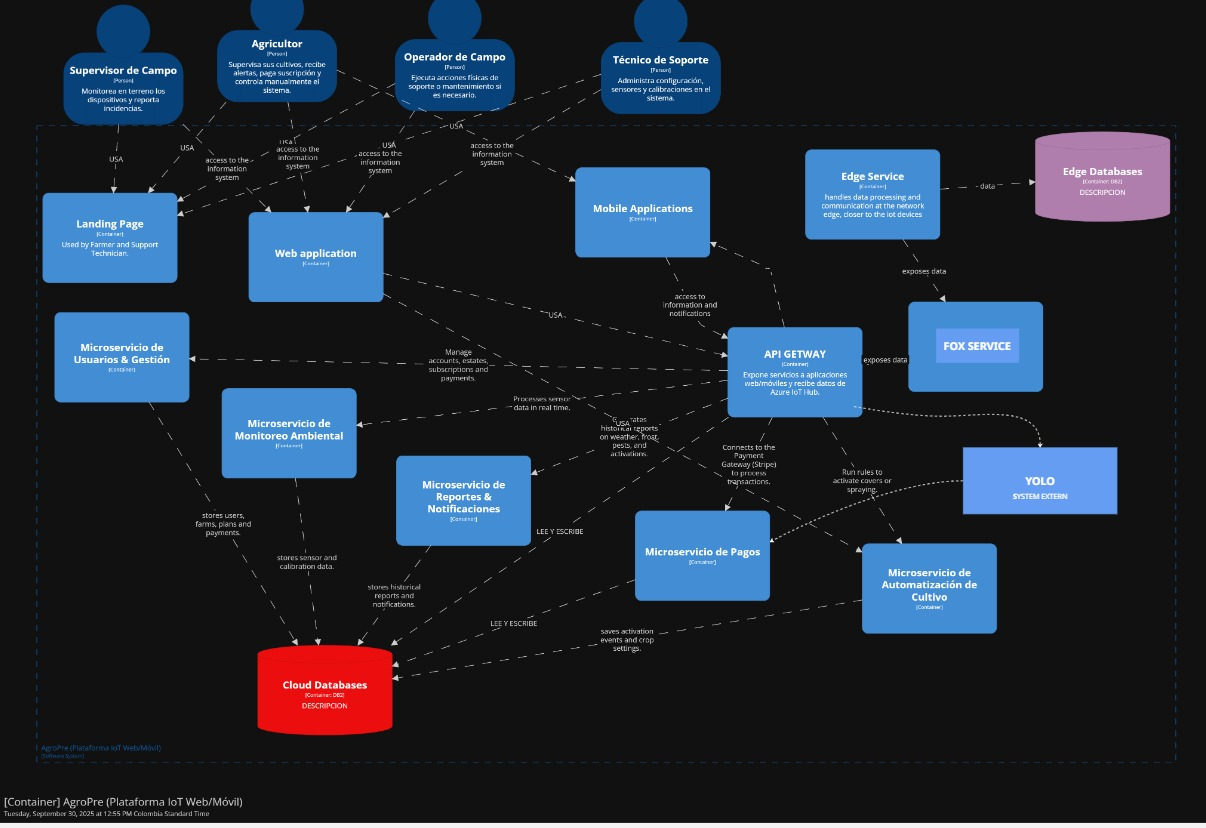
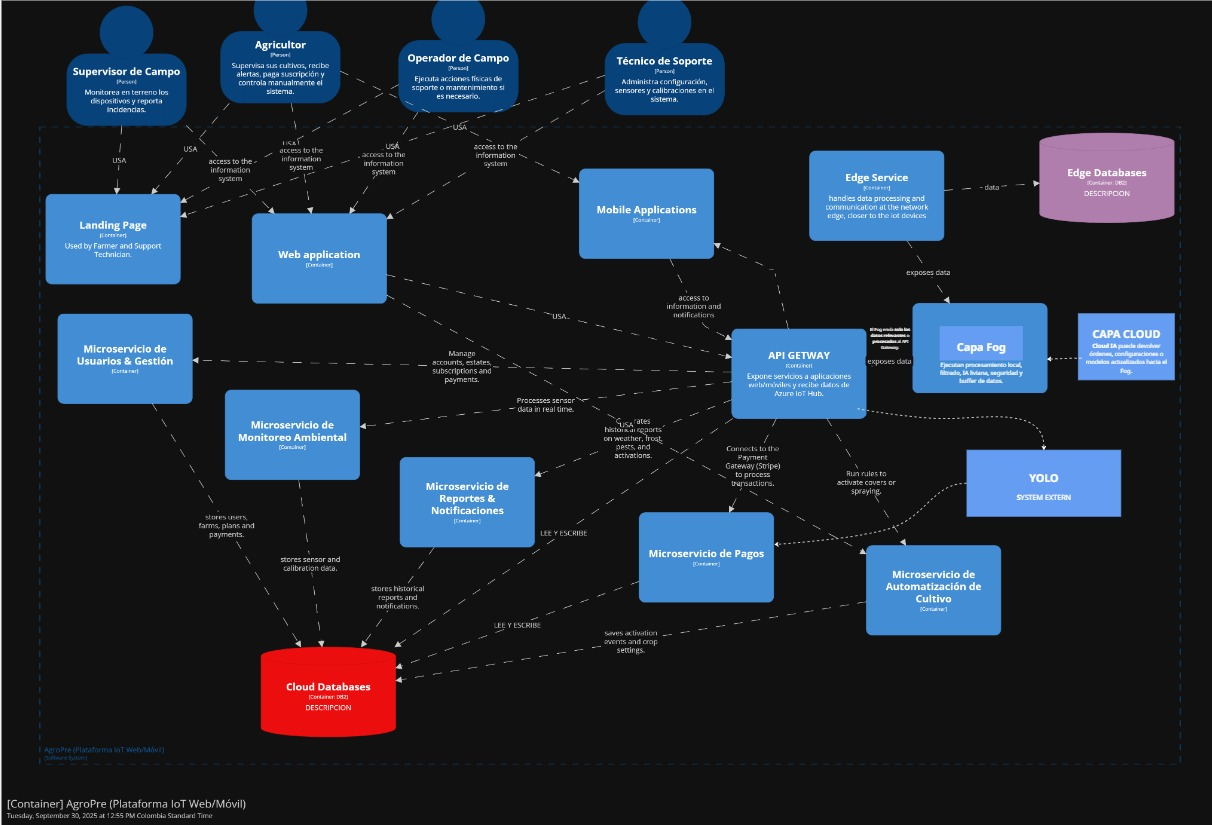
update:change1

diff --git a/README.md b/README.md
@@ -478,7 +478,10 @@ La aplicación móvil, la aplicación web, las APIs REST, las bases de datos, el
  Se representan sus interacciones internas y la manera en que se conectan con los usuarios externos (como los supervisores, operadores y administradores).  La relación con los bounded contexts se manifiesta en la arquitectura:  Gestión de usuarios, supervisión del medio ambiente, automatización del cultivo y notificaciones e informes.
 
 
-![diagramacontenedor](assets/img/diagramacontenedor.png)
+![diagramacontenedor](assets/img/diagramacontenedor.jpg)
+
+
+
 
 #### 4.1.3.4. Software Architecture Deployment Diagrams
 
